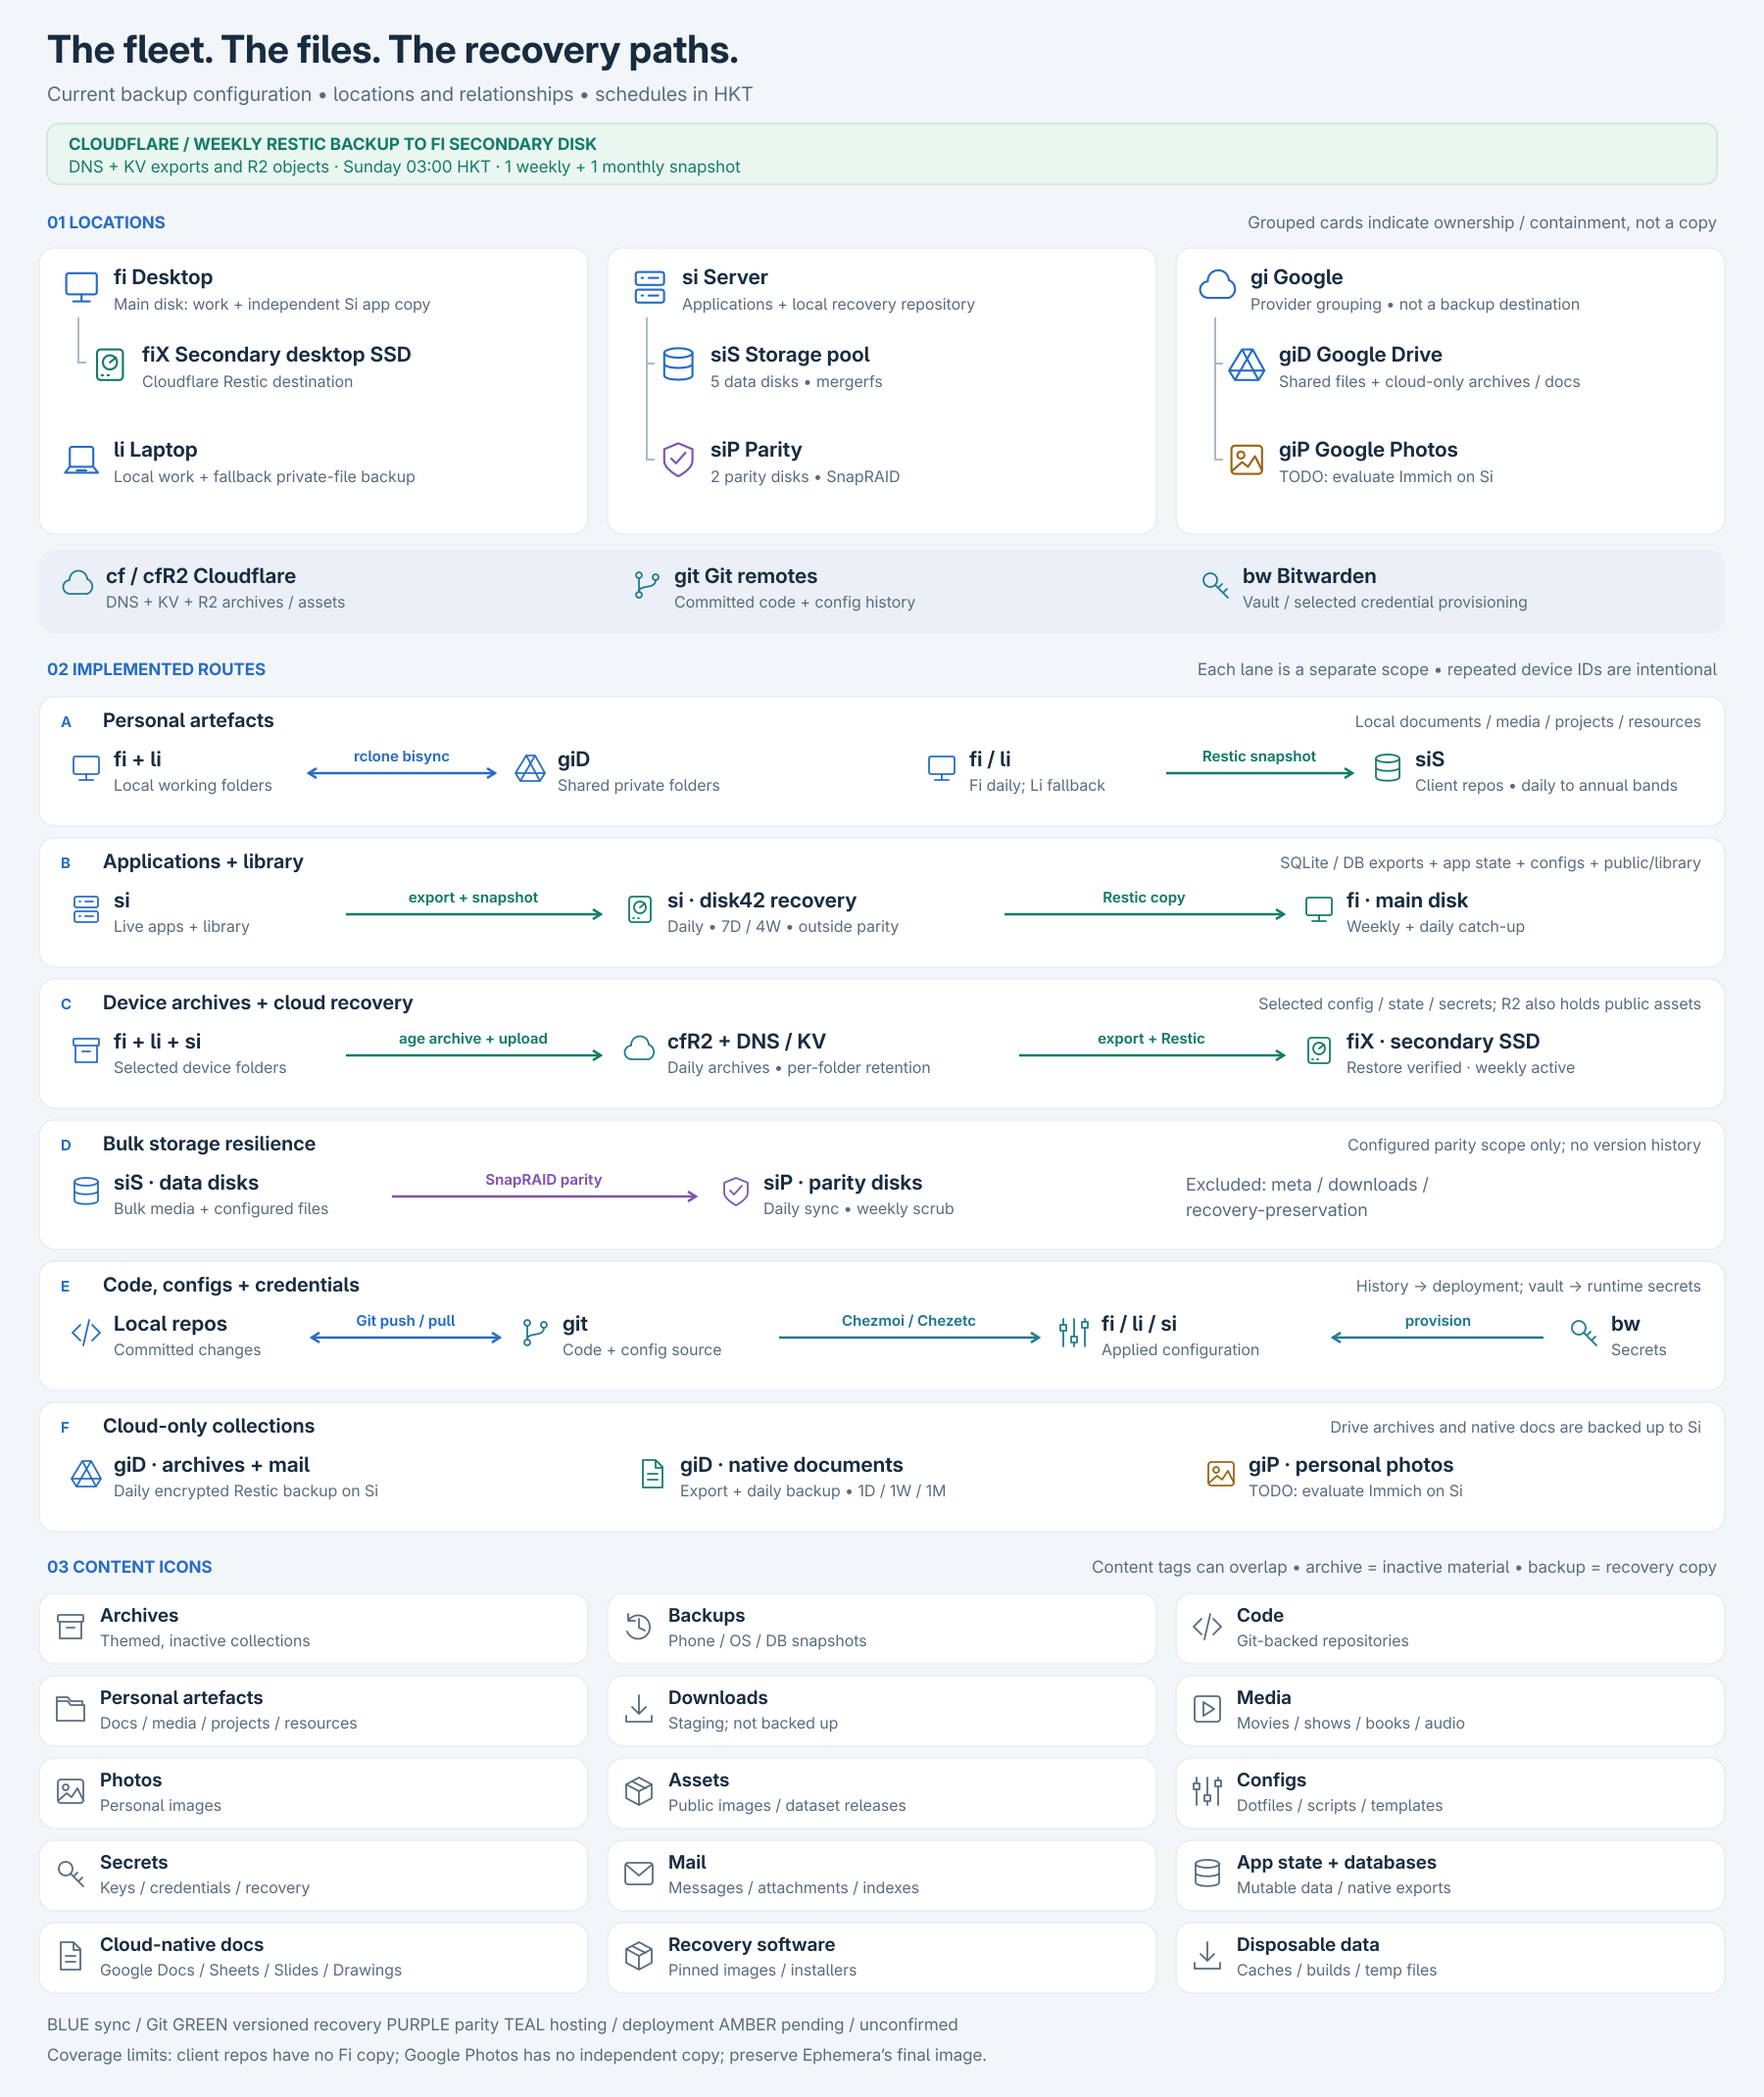
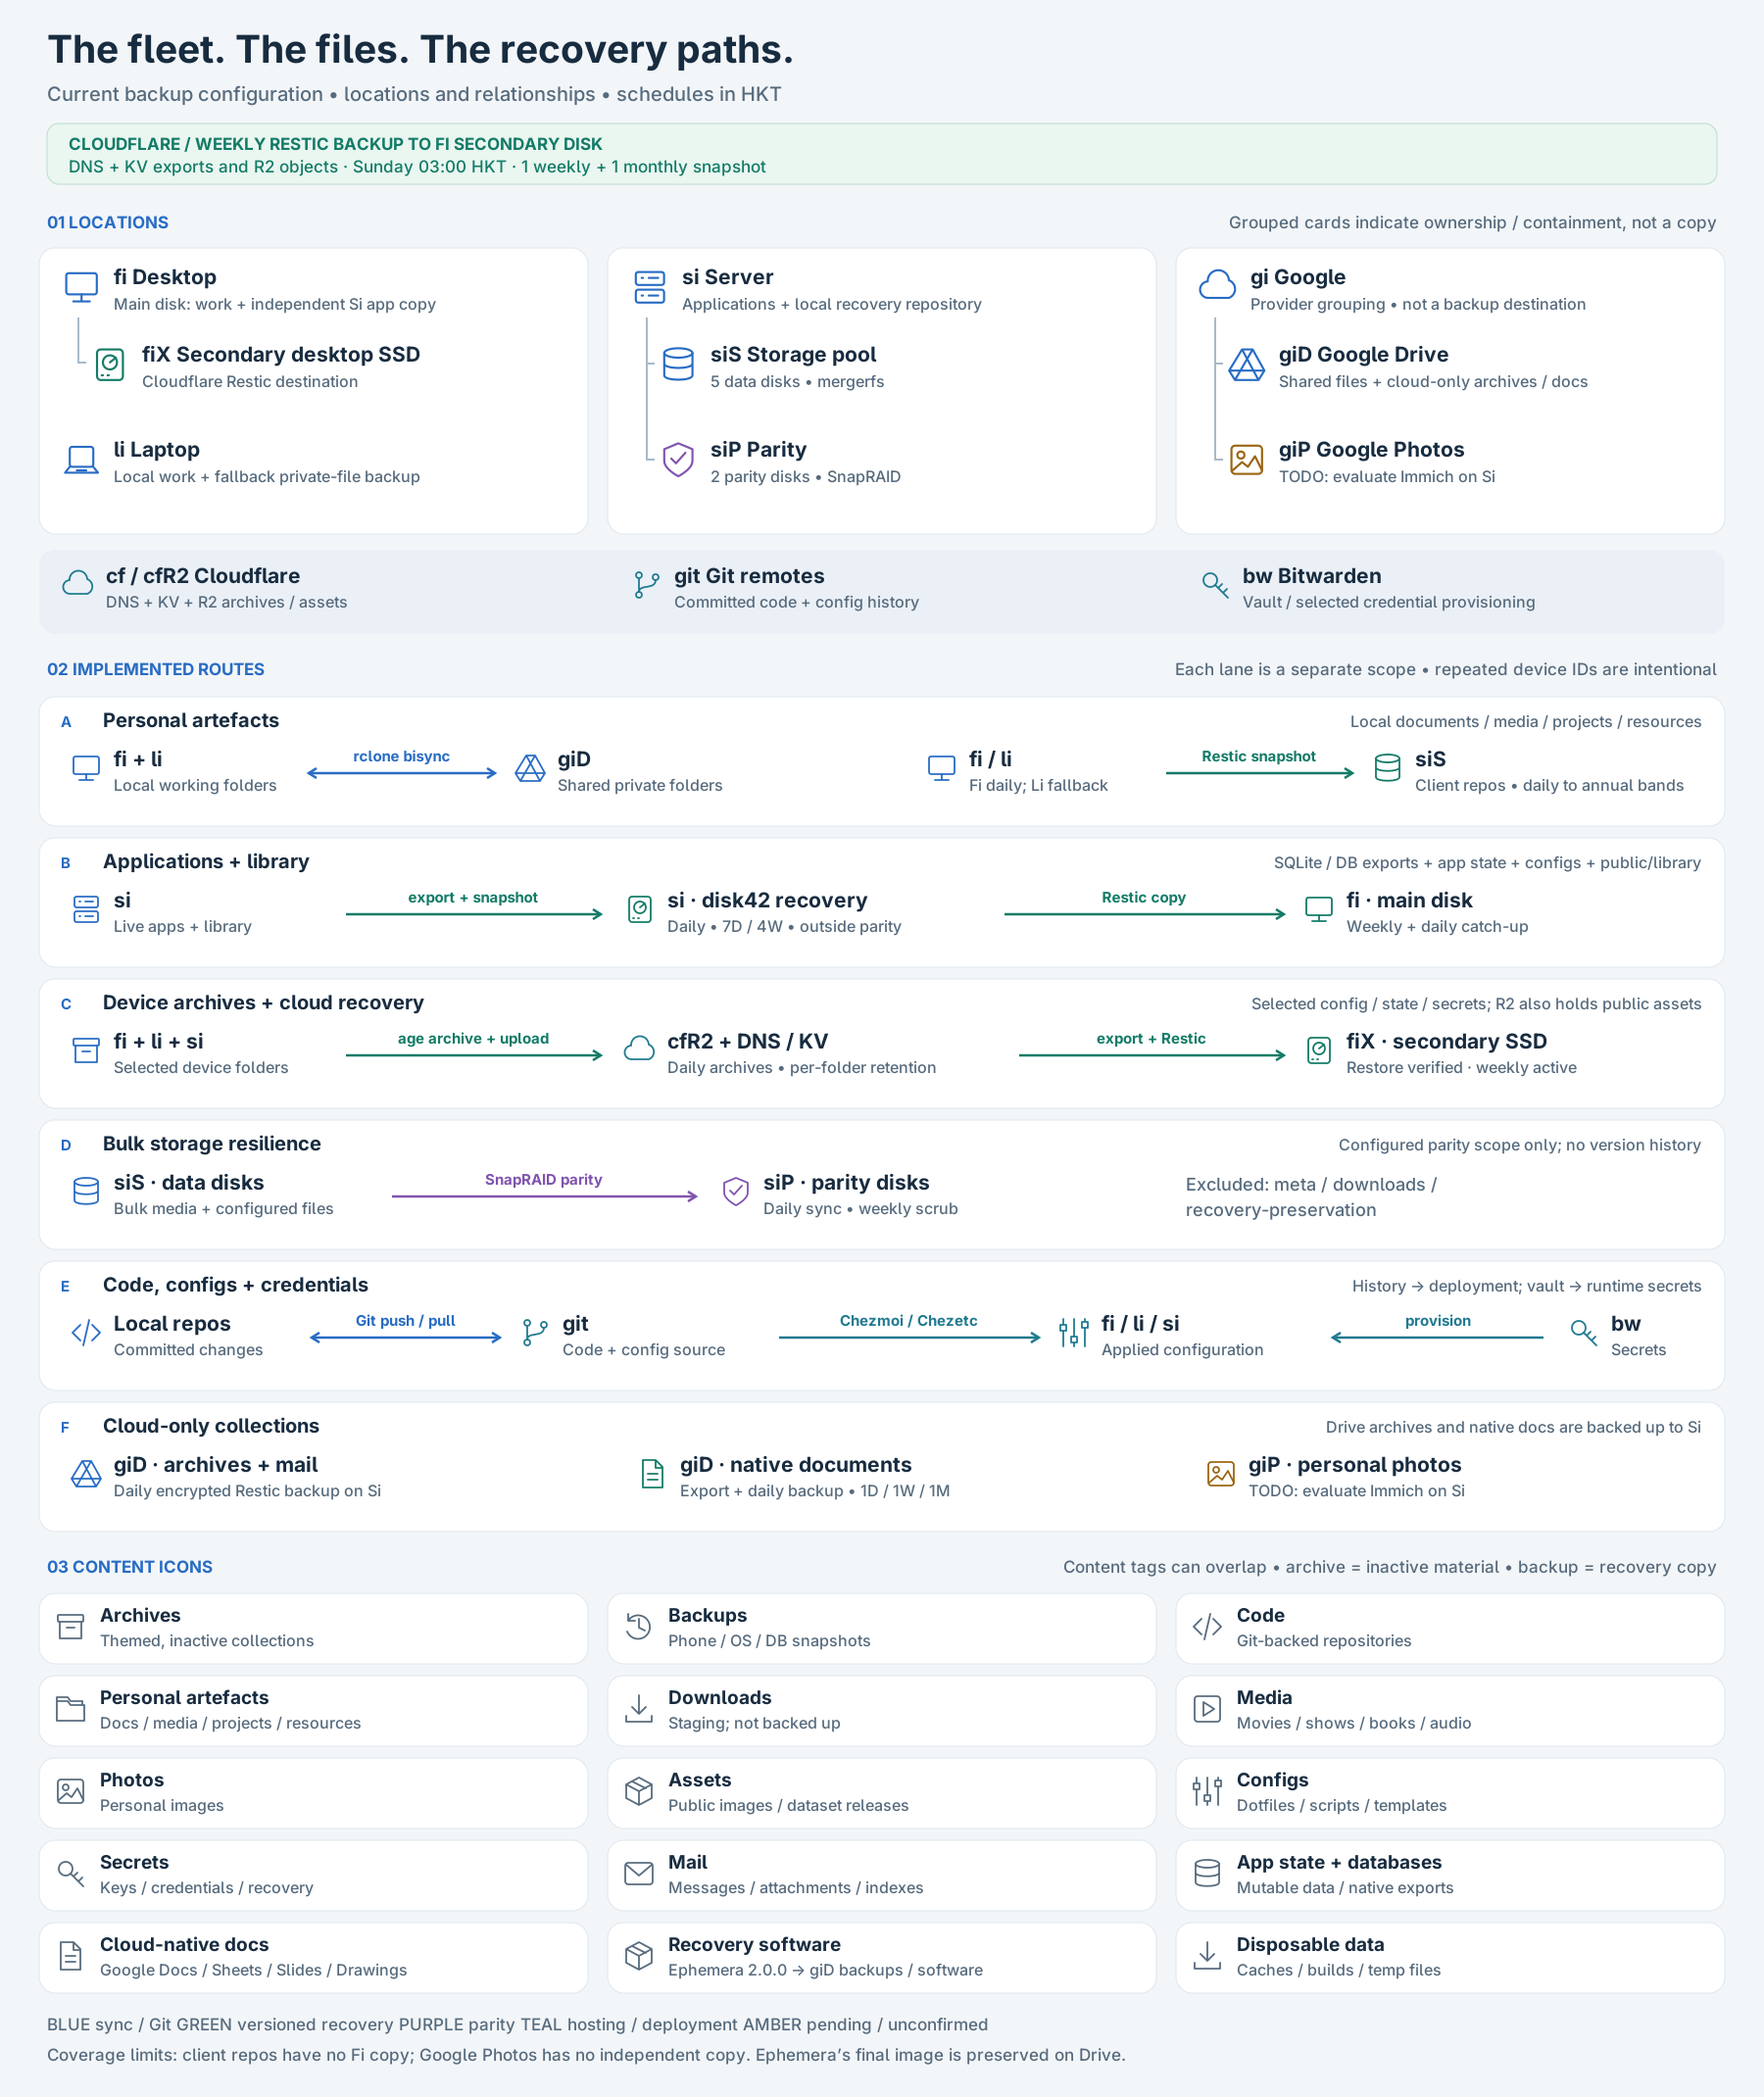
docs(backup): record verified Ephemera image preservation on Drive

diff --git a/scripts/render_fleet_backup_atlas.py b/scripts/render_fleet_backup_atlas.py
@@ -195,7 +195,7 @@ def render():
         ("mail", "Mail", "Messages / attachments / indexes"),
         ("pool", "App state + databases", "Mutable data / native exports"),
         ("document", "Cloud-native docs", "Google Docs / Sheets / Slides / Drawings"),
-        ("assets", "Recovery software", "Pinned images / installers"),
+        ("assets", "Recovery software", "Ephemera 2.0.0 → giD backups / software"),
         ("download", "Disposable data", "Caches / builds / temp files"),
     ]
     for i, (kind, title, subtitle) in enumerate(content):
@@ -206,7 +206,7 @@ def render():
         text(x + 62, y + 29, title, 19, INK, 650)
         text(x + 62, y + 54, subtitle, 16, MUTED)
     text(48, 2072, "BLUE  sync / Git       GREEN  versioned recovery       PURPLE  parity       TEAL  hosting / deployment       AMBER  pending / unconfirmed", 17, MUTED)
-    text(48, 2103, "Coverage limits: client repos have no Fi copy; Google Photos has no independent copy; preserve Ephemera’s final image.", 17, MUTED)
+    text(48, 2103, "Coverage limits: client repos have no Fi copy; Google Photos has no independent copy. Ephemera’s final image is preserved on Drive.", 17, MUTED)
     PARTS.append("</g></svg>")
     OUT.write_text("\n".join(PARTS) + "\n")
 

diff --git a/docs/si-application-backups.md b/docs/si-application-backups.md
@@ -21,6 +21,34 @@ Excluded: other media/downloads (including `public/books` and `public/library.ba
 
 This is application recovery coverage, not a disk image or backup of all private documents. Private WGS files are not part of this job. The independent computer copy is geographically offsite only when that computer is elsewhere.
 
+### Ephemera final image
+
+Ephemera 2.0.0 has a permanent, one-time Docker image backup on Google Drive:
+
+`type-drive:private/backups/software/ephemera/v2.0.0-37d95e68394b/`
+
+The folder contains `ephemera-v2.0.0.tar`, `image.json`, `SHA256SUMS`, and a
+recovery `README.md`. Keep these indefinitely. The image is Linux/amd64, with ID
+`sha256:37d95e68394bfeeb39958ccb042b9a6753d6f51b22d0fa2e7ba33017eb89cc2b`.
+It matches the image running on Si; automatic image updates remain disabled.
+
+On October 25, 2026, all 44 content-addressed blobs and the 21-layer manifest
+were verified. The complete uploaded archive was read back from Drive and its
+SHA-256 checked before removing the superseded `/home/m/ephemera-v2.0.0.tar`
+export on Si. Its SHA-256 is
[1 lines of base64/hex data omitted]
+Si retains a small pointer at `/home/m/ephemera-v2.0.0.README.md` and a transfer
+receipt under `~/.local/state/ephemera-preservation/`.
+
+Download the four files and run `sha256sum -c SHA256SUMS`, then
+`docker load --input ephemera-v2.0.0.tar`. Confirm the loaded image ID before
+starting it with `docker compose up -d --no-deps --pull never ephemera` using
+the managed Compose configuration. Recover application data separately using
+the Restic procedure below. This image archive contains no live application
+state and has no recurring backup schedule. Its relocation does not change
+the daily app-state backups or their Fi copy. Integrity verification is not a
+fresh application restore rehearsal.
+
 ## Consistency and validation
 
 Applications stay running. The job stages configuration files with rsync, then replaces every staged SQLite database with a transactionally consistent snapshot produced by SQLite's online backup API. Each database passes `PRAGMA quick_check`; Plex's bundled SQLite tool handles its custom schema if needed. Live WAL/SHM/journal files are removed only from staging after a clean database snapshot replaces them.

diff --git a/docs/fleet-backup-map.md b/docs/fleet-backup-map.md
@@ -14,6 +14,7 @@ current backup scopes, schedules, and retention.
 | Lowercase documents, media, projects, resources | Local Fi/Li folders, hourly bisync through giD `private/` | Encrypted per-client Restic repositories on Si (`/mnt/storage/private/backups/clients/fi` and `/mnt/storage/private/backups/clients/li`) | Fi 00:00, Li 01:00 fallback; one snapshot under 1 day, 1–3 days, 3–7 days, 7–14 days, 14–31 days, 31–92 days, and 92–365 days; then one per older calendar year |
 | Selected device settings, SSH/GPG, keys and application state | Host-specific folders on Fi/Li/Si | Verified archives in Cloudflare R2; age encryption except explicit asset exceptions | Fi 00:00, Li 00:15, Si 00:30; latest only or latest + previous ISO week + previous month |
 | Si applications, Plex, MariaDB, config, scripts and public/library | Si app state and library | Daily Restic on Si disk42, then independently encrypted Restic copy on Fi | Si 04:00; Fi Sunday 06:00 plus daily 10:00 check/catch-up; 7 daily + 4 weekly |
+| Ephemera final image (2.0.0) | Si Docker image | Verified image export in giD `private/backups/software/ephemera/v2.0.0-37d95e68394b/`; [recovery instructions](si-application-backups.md#ephemera-final-image) | One-time preservation; indefinite retention |
 | Bulk data on Si | Five data disks | Two SnapRAID parity disks; separate from versioned backup | Daily 05:00 sync; Sunday 08:00 25% scrub of eligible blocks |
 | Google Photos | Google Photos (`giP`) | No independent copy configured; TODO: evaluate Immich on Si as a backup destination | Not scheduled |
 | Google-native documents and Drive-only archives | giD `GSUITE/` and `private/archives/` | Encrypted Restic repository on Si at `/mnt/storage/private/backups/google-drive`; Google Docs/Sheets/Slides/Drawings are exported to compatible formats | Daily 02:00 HKT; 1 daily / 1 weekly / 1 monthly per source |

diff --git a/docs/fleet-backup-atlas.md b/docs/fleet-backup-atlas.md
@@ -55,6 +55,7 @@ a recurring job or a successful restore.
 | Secrets | Keys, credentials, encryption/recovery material | Bitwarden provisioning and selected age-encrypted device archives; never committed to Git |
 | **Mail** | Messages, attachments, indexes and reader exports | Encrypted structured archives under `giD:private/archives/mail/structured/`; included in the Si Drive backup |
 | **App state / databases** | Mutable application data, SQLite/Plex, MariaDB | Application-consistent exports → Si Restic → independently encrypted Fi repository |
+| **Recovery software** | Ephemera 2.0.0 final Docker image | Verified permanent export in `giD:private/backups/software/ephemera/v2.0.0-37d95e68394b/`; superseded Si tar removed. [Recovery instructions](si-application-backups.md#ephemera-final-image) |
 | **Cloud-native documents** | Google Docs, Sheets, Slides and Drawings in `GSUITE/` | Daily Si Restic export and backup at 02:00 HKT; 1 daily / 1 weekly / 1 monthly per source. Sharing, comments and revision history are not retained |
 ## Implemented schedule summary
 
